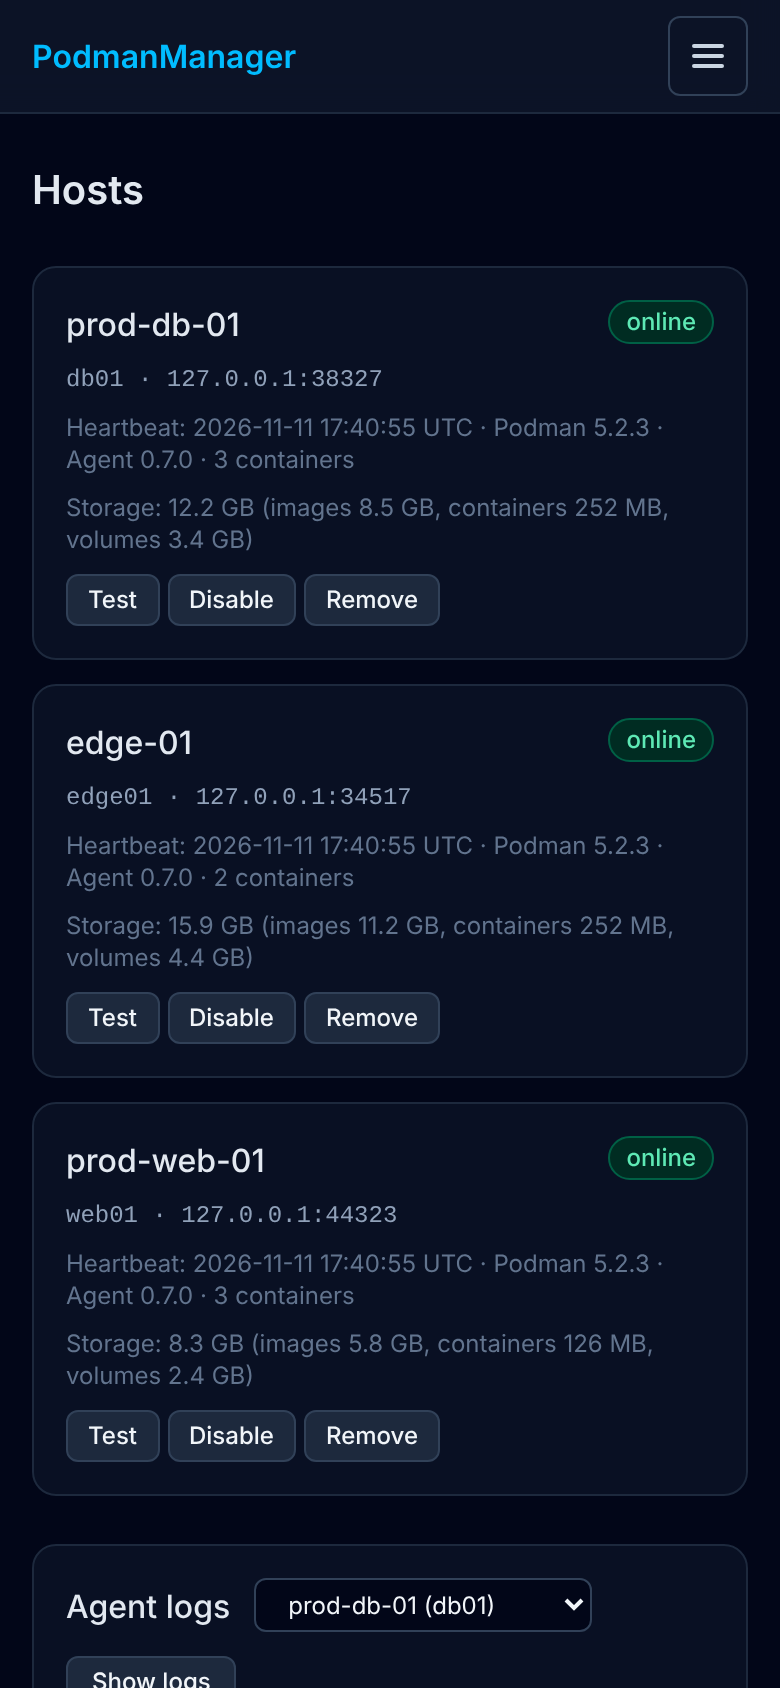
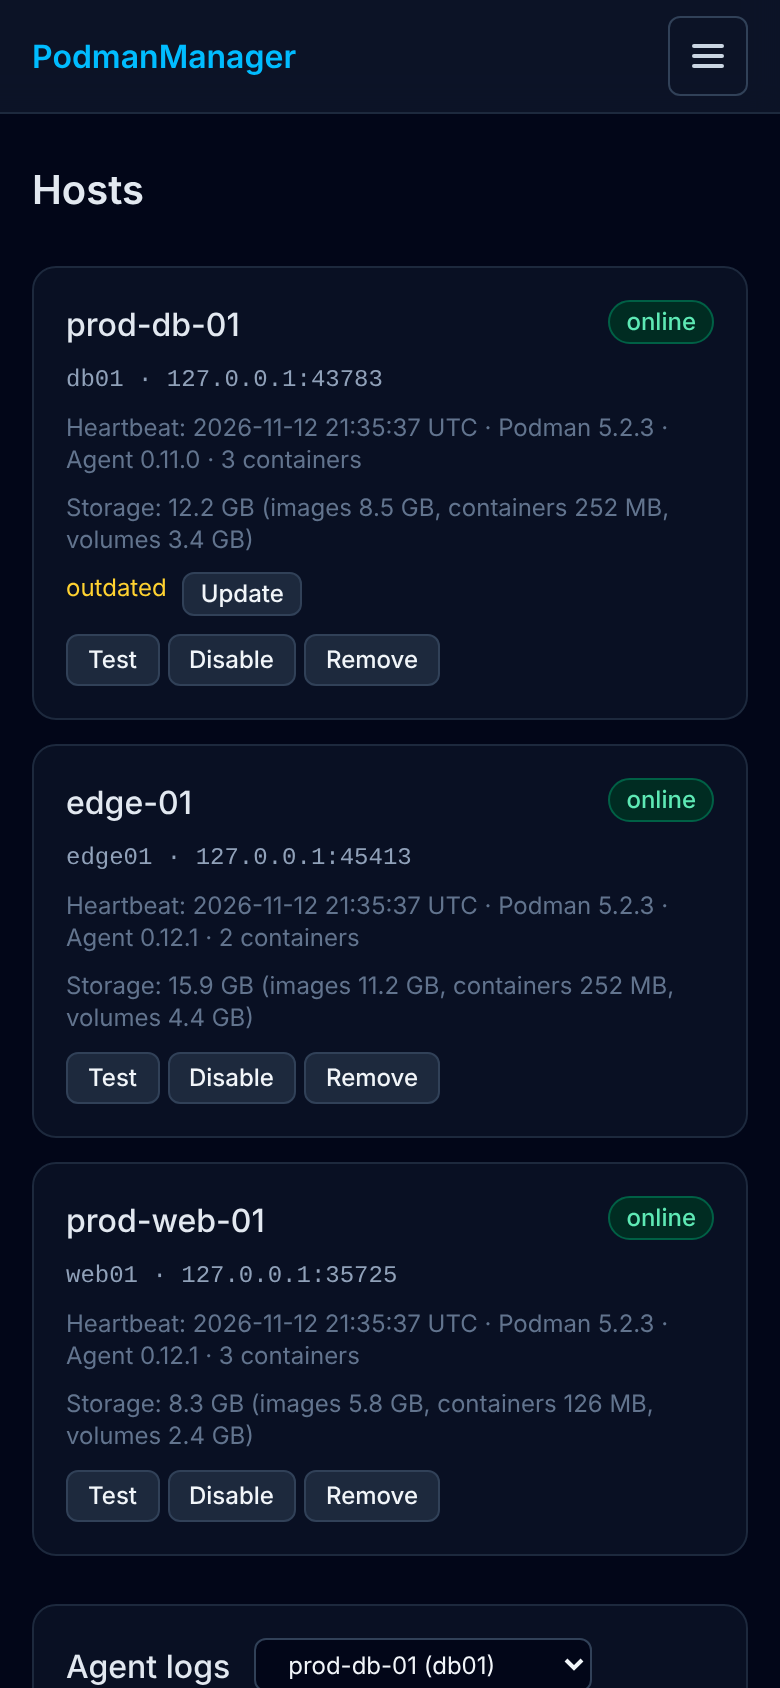
Docs: README, Architektur, Deployment und Benutzerhandbuch aktualisiert (Images, Updates), Screenshots neu erstellt; Images: Schutz-Hinweis bricht nicht mehr um (#52)
Claude-Session: https://claude.ai/code/session_01Mw1eJcjz1zhTj6DqA4m2yv

diff --git a/apps/master/src/app/(app)/images/page.tsx b/apps/master/src/app/(app)/images/page.tsx
@@ -63,7 +63,7 @@ export default async function Images({ searchParams }: { searchParams: SP }) {
             {rows.length === 0 && <tr><td className="td text-slate-400" colSpan={admin ? 7 : 6}>{t("images.none")}</td></tr>}
             {rows.map(({ agent, img, tag }) => (
               <tr key={`${agent.id}-${img.id}-${tag ?? ""}`} className="transition hover:bg-slate-900">
-                <td className="td max-w-[22rem] break-all font-medium">{label(tag, img.id)}{img.protected && <span className="ml-2 text-xs font-normal text-amber-300">{t("images.protected")}</span>}</td>
+                <td className="td max-w-[22rem] break-all font-medium">{label(tag, img.id)}{img.protected && <div className="text-xs font-normal text-amber-300">{t("images.protected")}</div>}</td>
                 <td className="td font-mono text-xs">{img.id.slice(0, 12)}</td>
                 <td className="td max-w-[11rem] truncate" title={agent.hostname}>{agent.hostname}</td>
                 <td className="td whitespace-nowrap tabular-nums">{fmtBytes(img.size, lang)}</td>

diff --git a/docs/benutzerhandbuch.md b/docs/benutzerhandbuch.md
@@ -13,12 +13,12 @@
 5. [Hosts: Ihre Rechner](#5-hosts-ihre-rechner)
 6. [Container: Ihre Anwendungen](#6-container-ihre-anwendungen)
 7. [Pods: zusammengehörende Anwendungen](#7-pods-zusammengehörende-anwendungen)
-8. [Einstellungen, Über, Sprache](#8-einstellungen-über-sprache)
-9. [Mit dem Smartphone](#9-mit-dem-smartphone)
-10. [Was Sie nicht sehen und nicht ändern können](#10-was-sie-nicht-sehen-und-nicht-ändern-können)
-11. [Wenn etwas nicht klappt](#11-wenn-etwas-nicht-klappt)
-12. [Kleines Wörterbuch](#12-kleines-wörterbuch)
-
+8. [Images: die Programmpakete](#8-images-die-programmpakete)
+9. [Einstellungen, Über, Sprache](#9-einstellungen-über-sprache)
+10. [Mit dem Smartphone](#10-mit-dem-smartphone)
+11. [Was Sie nicht sehen und nicht ändern können](#11-was-sie-nicht-sehen-und-nicht-ändern-können)
+12. [Wenn etwas nicht klappt](#12-wenn-etwas-nicht-klappt)
+13. [Kleines Wörterbuch](#13-kleines-wörterbuch)
 ---
 
 ## 1. Wofür gibt es PodmanManager?
@@ -30,9 +30,10 @@ Sie können damit:
 - sehen, welche Rechner und Anwendungen es gibt und ob alles läuft,
 - eine Anwendung starten, stoppen oder neu starten,
 - nachlesen, was eine Anwendung zuletzt gemeldet hat (die sogenannten **Logs**),
-- sehen, wie viel Speicherplatz die Anwendungen auf einem Rechner belegen.
+- sehen, wie viel Speicherplatz die Anwendungen auf einem Rechner belegen,
+- nachsehen, welche **Images** (Programmpakete) auf den Rechnern liegen und welche davon benutzt werden.
 
-PodmanManager **löscht, ändert und legt keine Anwendungen an**. Es gibt nur Starten, Stoppen und Neustarten (und nur für die Rechner Ihrer Gruppe). Bedenken Sie aber, dass ein Stopp die Anwendung für alle Nutzer beendet. Mehr dazu in [Kapitel 6](#6-container-ihre-anwendungen) und [Kapitel 10](#10-was-sie-nicht-sehen-und-nicht-ändern-können).
+PodmanManager **löscht, ändert und legt keine Anwendungen an**. Für Sie gibt es nur Starten, Stoppen und Neustarten (und nur für die Rechner Ihrer Gruppe). Images können Sie nur ansehen; löschen dürfen sie nur Administratoren. Bedenken Sie aber, dass ein Stopp die Anwendung für alle Nutzer beendet. Mehr dazu in [Kapitel 6](#6-container-ihre-anwendungen) und [Kapitel 11](#11-was-sie-nicht-sehen-und-nicht-ändern-können).
 
 ## 2. Anmelden und Abmelden
 
@@ -68,12 +69,13 @@ Oben sehen Sie die **Navigationsleiste**. Von dort erreichen Sie alle Bereiche:
 | **Hosts** | Die Rechner, auf denen Ihre Anwendungen laufen, mit Zustand und Speicherplatz |
 | **Container** | Alle einzelnen Anwendungen. Hier starten, stoppen, neu starten und Logs lesen |
 | **Pods** | Anwendungen, die zusammengehören, als Gruppe |
+| **Images** | Die Programmpakete auf den Rechnern, nur zum Ansehen |
 | **Einstellungen** | Wer Sie sind, was Sie sehen dürfen, Abmelden |
 | **Hilfe** | Öffnet die Projektseite im Internet (in englischer Sprache) |
-| **Über** | Version von PodmanManager |
+| **Über** | Version von PodmanManager und ob eine neuere Version verfügbar ist |
 | **Flaggen** | Sprache wechseln: Englisch, Deutsch, Rumänisch, Spanisch |
 
-**Wichtig:** Sie sehen nur die Rechner, für die Ihre **Gruppe** freigegeben ist. Das steht auf jeder Seite oben, zum Beispiel: *„Sie sehen nur die Agents Ihrer Gruppen: Team A.“* Fehlt ein Rechner, den Sie erwarten, ist er nicht für Ihre Gruppe freigegeben (siehe [Kapitel 11](#11-wenn-etwas-nicht-klappt)).
+**Wichtig:** Sie sehen nur die Rechner, für die Ihre **Gruppe** freigegeben ist. Das steht auf jeder Seite oben, zum Beispiel: *„Sie sehen nur die Agents Ihrer Gruppen: Team A.“* Fehlt ein Rechner, den Sie erwarten, ist er nicht für Ihre Gruppe freigegeben (siehe [Kapitel 12](#12-wenn-etwas-nicht-klappt)).
 
 **Aktualisierung:** Die Seiten aktualisieren sich **nicht von selbst**. Wenn Sie den aktuellen Stand sehen möchten, laden Sie die Seite neu (Taste **F5** oder das Neu-laden-Symbol im Browser). Nach einem Start, Stopp oder Neustart aktualisiert sich die Anzeige automatisch.
 
@@ -100,11 +102,11 @@ Unter **Hosts** sehen Sie jeden Rechner, den Sie sehen dürfen, in einer Zeile:
 | Spalte | Bedeutung |
 |---|---|
 | **Hostname** | Name des Rechners |
-| **Agent-ID** | Kennung des kleinen Hilfsprogramms auf dem Rechner (siehe [Wörterbuch](#12-kleines-wörterbuch)) |
+| **Agent-ID** | Kennung des kleinen Hilfsprogramms auf dem Rechner (siehe [Wörterbuch](#13-kleines-wörterbuch)) |
 | **Adresse** | Netzwerkadresse des Hilfsprogramms (für Sie meist uninteressant) |
 | **Status** | **online** = alles in Ordnung, **eingeschränkt** = Rechner erreichbar, aber es gibt ein Problem mit der Anwendungs-Verwaltung, **offline** = nicht erreichbar, **deaktiviert** = vom Administrator abgeschaltet |
 | **Letzter Heartbeat** | Wann der Rechner zuletzt geantwortet hat („Herzschlag“). Fahren Sie mit der Maus darüber, sehen Sie die genaue Zeit |
-| **Podman / Agent** | Versionsnummern der Software (für Fragen an den Administrator hilfreich) |
+| **Podman / Agent** | Versionsnummern der Software (für Fragen an den Administrator hilfreich). Steht unter der Agent-Version **veraltet**, läuft auf dem Rechner eine ältere Version des Hilfsprogramms. Das beeinträchtigt Ihre Arbeit nicht; der Administrator kann es aktualisieren |
 | **Container** | Anzahl der Anwendungen auf dem Rechner |
 | **Speicher** | Wie viel Speicherplatz die Anwendungen belegen, aufgeteilt nach *Images* (Programmpakete), *Container* (laufende Anwendungen) und *Volumes* (gespeicherte Daten). „Ungenutzt“ ist der Teil, den man aufräumen könnte |
 
@@ -177,7 +179,28 @@ Ein Klick auf den Namen öffnet die **Detailseite**:
 
 Dort sehen Sie die **enthaltenen Anwendungen** mit ihrem Zustand. Der Eintrag mit der Markierung **INFRA** ist ein technischer Hilfsbaustein des Pods, den Sie ignorieren können. Mit **Logs anzeigen** lesen Sie die **gemischten Logs aller Anwendungen** der Gruppe. Vor jeder Zeile steht der Name der Anwendung, von der sie stammt.
 
-## 8. Einstellungen, Über, Sprache
+## 8. Images: die Programmpakete
+
+Ein **Image** ist das „Programmpaket“, aus dem ein Container gestartet wird. Unter **Images** sehen Sie, welche Pakete auf den Rechnern Ihrer Gruppe liegen:
+
+![Images](screenshots/handbuch/15-images.png)
+
+| Spalte | Bedeutung |
+|---|---|
+| **Image** | Name und Version des Pakets, zum Beispiel `nginx:1.27`. Ein Paket mit mehreren Namen steht in mehreren Zeilen. Pakete ohne Namen heißen **„ohne Tag“** (meist Reste einer Aktualisierung) |
+| **ID** | Kurzkennung des Pakets |
+| **Host** | Auf welchem Rechner es liegt |
+| **Größe** | Belegter Speicherplatz |
+| **Container** | Wie viele Anwendungen dieses Paket gerade benutzen. **ungenutzt** heißt: keine |
+| **Erstellt** | Wann das Paket gebaut wurde |
+
+Mit dem Filter oben grenzen Sie nach **Host** oder **Image-Name** ein. Die Markierung **wird von PodmanManager genutzt** bedeutet: Dieses Paket gehört zu PodmanManager selbst.
+
+Als Benutzer können Sie Images **nur ansehen**. Löschen und Aufräumen sind Administratoren vorbehalten. Sehen Sie viele ungenutzte Pakete oder fehlt Speicherplatz, informieren Sie Ihren Administrator.
+
+![Images auf dem Handy](screenshots/handbuch/16-handy-images.png)
+
+## 9. Einstellungen, Über, Sprache
 
 **Einstellungen**
 
@@ -189,19 +212,19 @@ Hier sehen Sie, als wer Sie angemeldet sind, **auf welche Rechner Sie zugreifen 
 
 ![Über-Dialog](screenshots/handbuch/10-ueber.png)
 
-Zeigt die **Versionsnummer** von PodmanManager und – falls aktiviert – ob eine neuere Version verfügbar ist. Hilfreich, wenn Sie dem Administrator ein Problem melden.
+Zeigt die **Versionsnummer** von PodmanManager und – falls aktiviert – ob eine neuere Version verfügbar ist. Hilfreich, wenn Sie dem Administrator ein Problem melden. Das Aktualisieren übernimmt der Administrator; für Sie gibt es dort keinen Knopf.
 
 **Sprache**
 
 Mit den **Flaggen** oben rechts wechseln Sie zwischen Englisch, Deutsch, Rumänisch und Spanisch. Ihre Wahl wird im Browser gemerkt. Eine automatische Übersetzung durch den Browser ist ausgeschaltet, damit Fachbegriffe korrekt bleiben.
 
-## 9. Mit dem Smartphone
+## 10. Mit dem Smartphone
 
 Auf dem Handy passt sich die Seite an: Tabellen werden zu **Karten**, und die Navigationsleiste verbirgt sich hinter einem **Menü-Knopf** mit drei Strichen oben rechts.
 
 ![Dashboard auf dem Handy](screenshots/handbuch/12-handy-dashboard.png)
 
-1. Tippen Sie auf den **Menü-Knopf**. Die Liste mit Dashboard, Hosts, Container, Pods, Einstellungen, Hilfe, Über und den Sprach-Flaggen klappt auf.
+1. Tippen Sie auf den **Menü-Knopf**. Die Liste mit Dashboard, Hosts, Container, Pods, Images, Einstellungen, Hilfe, Über und den Sprach-Flaggen klappt auf.
 2. Tippen Sie auf einen Eintrag. Das Menü schließt sich von selbst. Ein weiterer Tipp auf den Knopf (jetzt ein **X**) schließt es ebenfalls.
 
 ![Menü auf dem Handy](screenshots/handbuch/13-handy-menue.png)
@@ -210,7 +233,7 @@ Die Knöpfe zum Starten, Stoppen und Neustarten finden Sie in jeder Karte:
 
 ![Container auf dem Handy](screenshots/handbuch/14-handy-container.png)
 
-## 10. Was Sie nicht sehen und nicht ändern können
+## 11. Was Sie nicht sehen und nicht ändern können
 
 Das ist **Absicht** und dient der Sicherheit:
 
@@ -219,11 +242,12 @@ Das ist **Absicht** und dient der Sicherheit:
 - Sie können **keine Rechner hinzufügen, entfernen, prüfen oder deaktivieren**.
 - Sie können **keine Einstellungen ändern** und keine Gruppen verwalten.
 - Die **Logs von PodmanManager selbst** und der Hilfsprogramme sehen nur Administratoren.
-- Anwendungen **anlegen, löschen oder verändern** ist in PodmanManager gar nicht möglich, auch nicht für Administratoren. Es gibt nur Starten, Stoppen und Neustarten.
+- **Images löschen oder aufräumen** und PodmanManager **aktualisieren** können nur Administratoren.
+- Anwendungen **anlegen oder verändern** ist in PodmanManager gar nicht möglich, auch nicht für Administratoren. Es gibt nur Starten, Stoppen und Neustarten.
 
 Fehlt Ihnen etwas davon, wenden Sie sich an Ihren Administrator.
 
-## 11. Wenn etwas nicht klappt
+## 12. Wenn etwas nicht klappt
 
 | Problem | Was Sie tun können |
 |---|---|
@@ -241,14 +265,14 @@ Fehlt Ihnen etwas davon, wenden Sie sich an Ihren Administrator.
 
 **Was Sie dem Administrator mitteilen sollten:** Wer Sie sind, was Sie versucht haben, den **Namen des Rechners** und der Anwendung, die **Uhrzeit** und die **Meldung im Wortlaut** (am besten als Bildschirmfoto). Die **Versionsnummer** finden Sie unter **Über**.
 
-## 12. Kleines Wörterbuch
+## 13. Kleines Wörterbuch
 
 | Begriff | Bedeutung |
 |---|---|
 | **Host** | Ein Rechner (Server), auf dem Anwendungen laufen. |
 | **Container** | Eine einzelne, abgeschottete Anwendung, zum Beispiel ein Webserver. |
 | **Pod** | Eine Gruppe von Containern, die zusammengehören und gemeinsam gestartet oder gestoppt werden. |
-| **Image** | Das „Programmpaket“, aus dem ein Container gestartet wird. |
+| **Image** | Das „Programmpaket“, aus dem ein Container gestartet wird. Dasselbe Image kann mehrere Namen (Tags, z. B. `latest`) haben. |
 | **Volume** | Ein Speicherbereich für Daten, die auch nach einem Neustart erhalten bleiben sollen (zum Beispiel Datenbankinhalte). |
 | **Podman** | Die Software auf dem Rechner, die die Container betreibt. PodmanManager steuert sie. |
 | **Agent** | Ein kleines Hilfsprogramm auf jedem Rechner, das PodmanManager mit diesem Rechner verbindet. „Agent-ID“ ist sein Name. |

diff --git a/README.md b/README.md
@@ -1,7 +1,7 @@
 # PodmanManager
 
 Schlanke zentrale Verwaltung von **rootless Podman**-Containern auf mehreren Linux-Hosts.
-Funktionsumfang bewusst begrenzt: Container **anzeigen, starten, stoppen, neustarten**.
+Funktionsumfang bewusst begrenzt: Container und Pods **anzeigen, starten, stoppen, neustarten**, Logs lesen, Images **ansehen und (Admins) löschen**.
 
 - **Master** (`apps/master`): Next.js-Weboberfläche, HTTP `:8080`, SQLite.
 - **Agent** (`apps/agent`): eigenständiger Node.js-Prozess pro Host, HTTP `:9126`, spricht ausschließlich mit dem lokalen Podman-Unix-Socket des eigenen Benutzers. Keine Laufzeit-Abhängigkeiten.
@@ -10,7 +10,11 @@ Funktionsumfang bewusst begrenzt: Container **anzeigen, starten, stoppen, neusta
 Browser ── HTTP :8080 ── Master ── HTTP :9126 (Bearer-Token) ── Agent ── Unix-Socket ── Podman (rootless)
 ```
 
-Neben Containern zeigt der Master auch **Pods** (Liste, Detail mit Containern, Start/Stop/Restart und die letzten 150 Log-Zeilen des ganzen Pods); in der Container-Liste steht, zu welchem Pod ein Container gehört. Die Host-Tabelle zeigt pro Host den vom Podman-Speicher belegten Platz (Images, Container, Volumes).
+Neben Containern zeigt der Master auch **Pods** (Liste, Detail mit Containern, Start/Stop/Restart und die letzten 150 Log-Zeilen des ganzen Pods); in der Container-Liste steht, zu welchem Pod ein Container gehört. Die Host-Tabelle zeigt pro Host den vom Podman-Speicher belegten Platz (Images, Container, Volumes) und die Agent-Version.
+
+**Images** (eigener Menüpunkt): je Host alle Images mit Tags, Größe, Alter und nutzenden Containern. Admins löschen ein Image oder nur einen Tag und räumen Images ohne Tag auf; Images in Benutzung sowie die von PodmanManager selbst sind gesperrt.
+
+**Updates per Web-UI** (Admins): Agents, die älter als der Master sind, tragen das Label „veraltet“ und lassen sich in der Host-Ansicht per Knopf aktualisieren. Den Master aktualisiert ein Agent auf demselben Host über „Über“ → „Jetzt aktualisieren“ (`UPDATE_UNIT`). Voraussetzung: Quadlet mit `Restart=always` und Image-Tag `:latest` (siehe [Quadlets](deployment/quadlet/README.md)).
 
 Die Oberfläche ist in Englisch, Deutsch, Rumänisch und Spanisch verfügbar (Flaggen-Auswahl oben rechts; Standard aus `Accept-Language`, danach per Cookie gemerkt). Die automatische Browser-Übersetzung ist per `translate="no"` und `<meta name="google" content="notranslate">` unterbunden.
 
@@ -35,6 +39,8 @@ Kein Docker, kein Compose, kein HTTPS/TLS, kein Root. **Nur in einem abgeschotte
 | ![Details](docs/screenshots/desktop-container-detail.png) | ![Dashboard mit Offline-Host](docs/screenshots/desktop-dashboard-host-offline.png) |
 | **Pods** | **Pod-Details mit gemischten Logs** |
 | ![Pods](docs/screenshots/desktop-pods.png) | ![Pod-Details](docs/screenshots/desktop-pod-detail.png) |
+| **Images** (Löschen nur für Admins) | |
+| ![Images](docs/screenshots/desktop-images.png) | |
 
 **Smartphone** (Hamburger-Menü und Kartenansicht statt Tabellen)
 
@@ -43,6 +49,7 @@ Kein Docker, kein Compose, kein HTTPS/TLS, kein Root. **Nur in einem abgeschotte
   <img src="docs/screenshots/mobile-hosts.png" alt="Hosts mobil" width="200">
   <img src="docs/screenshots/mobile-containers.png" alt="Container mobil" width="200">
   <img src="docs/screenshots/mobile-pods.png" alt="Pods mobil" width="200">
+  <img src="docs/screenshots/mobile-images.png" alt="Images mobil" width="200">
 </p>
 
 Die Screenshots zeigen Testdaten (nachgebaute Podman-Sockets). Die Oberfläche gibt es in Englisch, Deutsch, Rumänisch und Spanisch (Flaggen oben rechts).
@@ -65,7 +72,7 @@ MASTER_SECRET_KEY=$(openssl rand -base64 32) deployment/master/start.sh
 
 ## Docker-Images
 
-Fertige Images (Apache-2.0) liegen öffentlich auf Docker Hub: [`petrecalinoiu/podmanmanager-master`](https://hub.docker.com/r/petrecalinoiu/podmanmanager-master) und [`petrecalinoiu/podmanmanager-agent`](https://hub.docker.com/r/petrecalinoiu/podmanmanager-agent). Tags: `0.1.1`, `latest` (und `sha-<commit>`); sie werden bei jedem Git-Tag `v*` automatisch gebaut. Die Container-Starts sind bisher nicht auf echten Hosts getestet.
+Fertige Images (Apache-2.0) liegen öffentlich auf Docker Hub: [`petrecalinoiu/podmanmanager-master`](https://hub.docker.com/r/petrecalinoiu/podmanmanager-master) und [`petrecalinoiu/podmanmanager-agent`](https://hub.docker.com/r/petrecalinoiu/podmanmanager-agent). Tags: `latest`, die Version (z. B. `0.12.1`) und `sha-<commit>`; sie werden bei jedem Git-Tag `v*` automatisch gebaut. Für Updates per Web-UI `latest` verwenden.
 
 **Master**
 
@@ -73,7 +80,7 @@ Fertige Images (Apache-2.0) liegen öffentlich auf Docker Hub: [`petrecalinoiu/p
 docker run -d --name podmanmanager-master -p 8080:8080 \
   -v pm-data:/data \
   -e MASTER_SECRET_KEY="<32 Byte, base64: openssl rand -base64 32>" \
-  petrecalinoiu/podmanmanager-master:0.1.1
+  petrecalinoiu/podmanmanager-master:latest
 ```
 
 `MASTER_SECRET_KEY` einmal festlegen und bei jedem Start wieder verwenden – mit einem neuen Schlüssel sind die gespeicherten Agent-Tokens unlesbar. Die Datenbank liegt im Volume `/data`.
@@ -81,11 +88,11 @@ docker run -d --name podmanmanager-master -p 8080:8080 \
 **Agent** (empfohlen bleibt die native Installation mit `deployment/agent/install.sh`; als Container braucht der Agent den gemounteten Rootless-Socket und muss mit der UID des Podman-Benutzers laufen, er verweigert Root)
 
 ```bash
-podman run --rm petrecalinoiu/podmanmanager-agent:0.1.1 node dist/index.js --generate-token   # Token + Hash
+podman run --rm petrecalinoiu/podmanmanager-agent:latest node dist/index.js --generate-token   # Token + Hash
 podman run -d --name pm-agent --user $(id -u) --userns=keep-id -p 9126:9126 \
   -v $XDG_RUNTIME_DIR/podman/podman.sock:/run/podman/podman.sock \
   -e AGENT_ID=host-1 -e AGENT_TOKEN_HASH=<hash> \
-  docker.io/petrecalinoiu/podmanmanager-agent:0.1.1
+  docker.io/petrecalinoiu/podmanmanager-agent:latest
 ```
 
 Den Token im Master unter *Hosts* eintragen; Port 9126 nur für die Master-IP freigeben (siehe [Sicherheit](docs/security.md)).
@@ -100,7 +107,7 @@ Den Token im Master unter *Hosts* eintragen; Port 9126 nur für die Master-IP fr
 | [SSO mit SAML/ADFS](docs/sso-adfs.md) | Anmeldung per SAML 2.0 über ADFS 2022: Einrichtung, Claims, Fehlersuche |
 | [Agent-Installation](docs/installation-agent.md) | install.sh, User-Service, Lingering, Podman-Socket |
 | [Deployment (Schritt für Schritt)](deployment/README.md) | `podman run` und Quadlet für Master und Agent; Agent-Hash als Secret oder Environment-Wert |
-| [Quadlets](deployment/quadlet/README.md) | Rootless-Quadlets für Master und Agent (Podman-Secrets, gemeinsames Netzwerk) |
+| [Quadlets](deployment/quadlet/README.md) | Rootless-Quadlets für Master und Agent (Podman-Secrets, gemeinsames Netzwerk, Updates per Web-UI) |
 | [API](docs/api.md) | Agent-REST-API, Fehlercodes |
 | [Sicherheit](docs/security.md) | Bedrohungsmodell, Tokens, Firewall |
 | [Troubleshooting](docs/troubleshooting.md) | Häufige Fehler |

diff --git a/docs/architecture.md b/docs/architecture.md
@@ -32,6 +32,8 @@ Der Agent nutzt ausschließlich diese festen Endpunkte (kein Pass-through). `<ba
 | Restart | `POST <base>/containers/{id}/restart?t=10` (204) |
 | Pods | `GET <base>/pods/json` (Liste mit Containern); Aktionen `POST <base>/pods/{id}/start|stop?t=10|restart` (200; 304 = Zustand schon erreicht) |
 | Speicher (lesend) | `GET <base>/system/df` (Images, Container, Volumes mit Größen); der Agent summiert und cached 60 s |
+| Images | `GET <base>/images/json` (Liste), `DELETE <base>/images/{id oder repo:tag}?force=false` (nie mit Force), `POST <base>/images/prune?filters={"dangling":["true"]}`; Nutzung aus `GET <base>/containers/json?all=true` (`ImageID`) |
+| Selbst-Update | `GET <base>/containers/{id}/json` (eigenes Image), `POST <base>/images/pull?reference=<eigenes Image>&quiet=true`; danach beendet sich der Agent bzw. stoppt `POST <base>/containers/{id}/stop` den Master-Container (gefunden per `GET <base>/containers/json?filters={"label":["PODMAN_SYSTEMD_UNIT=<unit>.service"]}`) |
 | Pod-Logs (lesend) | keine Podman-Route: Container-Logs jedes Pod-Containers (siehe oben), vom Agent nach Zeitstempel gemischt |
 | Logs (lesend) | `GET <base>/containers/{id}/logs?stdout=true&stderr=true&tail=<n>&timestamps=true` (Antwort: Rahmenformat, siehe unten) |
 
@@ -43,5 +45,8 @@ Der Agent nutzt ausschließlich diese festen Endpunkte (kein Pass-through). `<ba
 - gegen den Podman-Quellcode und gegen ein echtes **Podman 4.9.3** (Root-Socket in der Entwicklungsumgebung): `_ping`, Version, Container auflisten/ansehen, Start/Stop/Restart inkl. 304-Fall und unbekannter ID, mit einem echten Container;
 - auf einem echten Host mit **Rootless-Podman 5.8.2** (Agent und Master als Quadlet-Container im gemeinsamen Netzwerk): Registrierung im Master, `/api/v1/health` (`socketStatus: ok`, `apiStatus: ok`, Podman-Version), Containerliste und Start/Stop/Restart über die Master-Oberfläche funktionieren. Andere 5.x-Versionen sind nicht gesondert getestet.
 
+## Updates per Web-UI
+Podman hat keine REST-Route für Auto-Updates; daher: Der **Agent** zieht sein eigenes Image (nur schwebende Tags wie `latest`, `X`, `X.Y`) erneut und beendet sich mit Fehlercode, systemd (`Restart=always`) erstellt den Container aus dem neuen Image. Für den **Master** (ohne Podman-Zugriff) übernimmt das ein Agent auf demselben Host: Mit `UPDATE_UNIT=<Master-Unit>` zieht er das Master-Image und stoppt dessen Container, systemd startet ihn neu. Ohne Quadlet/systemd oder mit festem Tag wird abgelehnt. Admin-Aktion im Master.
+
 ## Bewusst nicht enthalten
-Container und Pods erstellen/löschen, Images, Volumes, Netzwerke, Exec/Terminal, Statistiken, Compose. (Pods gibt es nur als Liste, Detail, Start/Stop/Restart und schreibgeschützte Logs. Logs gibt es nur als schreibgeschützte Ansicht der letzten 150 Zeilen, kein Live-Stream.)
+Container und Pods erstellen/löschen, Images pullen/bauen (nur ansehen und löschen), Volumes, Netzwerke, Exec/Terminal, Statistiken, Compose. (Pods gibt es nur als Liste, Detail, Start/Stop/Restart und schreibgeschützte Logs. Logs gibt es nur als schreibgeschützte Ansicht der letzten 150 Zeilen, kein Live-Stream.)

diff --git a/deployment/README.md b/deployment/README.md
@@ -204,6 +204,7 @@ Im Master unter *Hosts* `http://<host-ip>:9126` und den Token eintragen. Master 
 ### B.6 Update, Token erneuern, Entfernen
 
 - **Update:** In den `.container`-Dateien den `Image=`-Tag ändern, `systemctl --user daemon-reload && systemctl --user restart podmanmanager-agent podmanmanager-master`. Der About-Dialog des Masters zeigt, wenn eine neuere Version vorliegt.
+- **Update per Web-UI (ab v0.10.0 / v0.11.0):** Mit `Image=…:latest` und `Restart=always` aktualisiert der Admin Agents in der Host-Ansicht („veraltet“ → *Aktualisieren*) und den Master unter *Über* → *Jetzt aktualisieren*. Für den Master braucht der Agent auf demselben Host `Environment=UPDATE_UNIT=podmanmanager-master`. Details: [Quadlets](quadlet/README.md#master-per-web-ui-aktualisieren).
 - **Token erneuern:** Abschnitt „Token und Hash“ erneut ausführen, dann
   - Secret-Variante: `podman secret rm podmanmanager-agent-hash`, neues Secret anlegen (B.3);
   - Environment-Variante: `AGENT_TOKEN_HASH=` in der Unit-Datei ersetzen (B.4);

diff --git a/docs/installation-master.md b/docs/installation-master.md
@@ -160,5 +160,5 @@ Unter **Settings → Hidden containers** (nur lokaler `admin`) lassen sich Conta
 Port 8080 nur für berechtigte Netze freigeben, nie ins Internet (siehe [Sicherheit](security.md)).
 
 ## Update / Backup
-Update: `git pull && npm ci && npm run build -w apps/master && sudo systemctl restart podmanmanager-master`.
+Container-Betrieb (Quadlet, `:latest`): Update per Web-UI, siehe [Quadlets](../deployment/quadlet/README.md#agent-per-web-ui-aktualisieren). Native Installation: `git pull && npm ci && npm run build -w apps/master && sudo systemctl restart podmanmanager-master`.
 Backup: `master.db` (+ `-wal`/`-shm`) und `MASTER_SECRET_KEY`.
